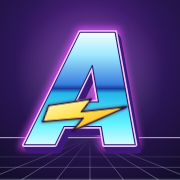
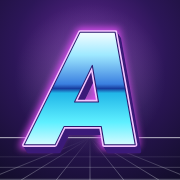
Icône : A chromé sans éclair
Claude-Session: https://claude.ai/code/session_01JphpBPQVJ2XzCx9H5axc9T

Changed region(s): [[0.2222, 0.5278, 0.7222, 0.75]]

diff --git a/sw.js b/sw.js
@@ -1,4 +1,4 @@
-const CACHE = "devis-v10";
+const CACHE = "devis-v11";
 const FILES = ["./", "index.html", "manifest.json", "icon.svg", "icon-192.png", "icon-512.png", "apple-touch-icon.png", "jspdf.umd.min.js"];
 self.addEventListener("install", e => { e.waitUntil(caches.open(CACHE).then(c => c.addAll(FILES))); self.skipWaiting(); });
 self.addEventListener("activate", e => { e.waitUntil(caches.keys().then(ks => Promise.all(ks.filter(k => k !== CACHE).map(k => caches.delete(k))))); self.clients.claim(); });
